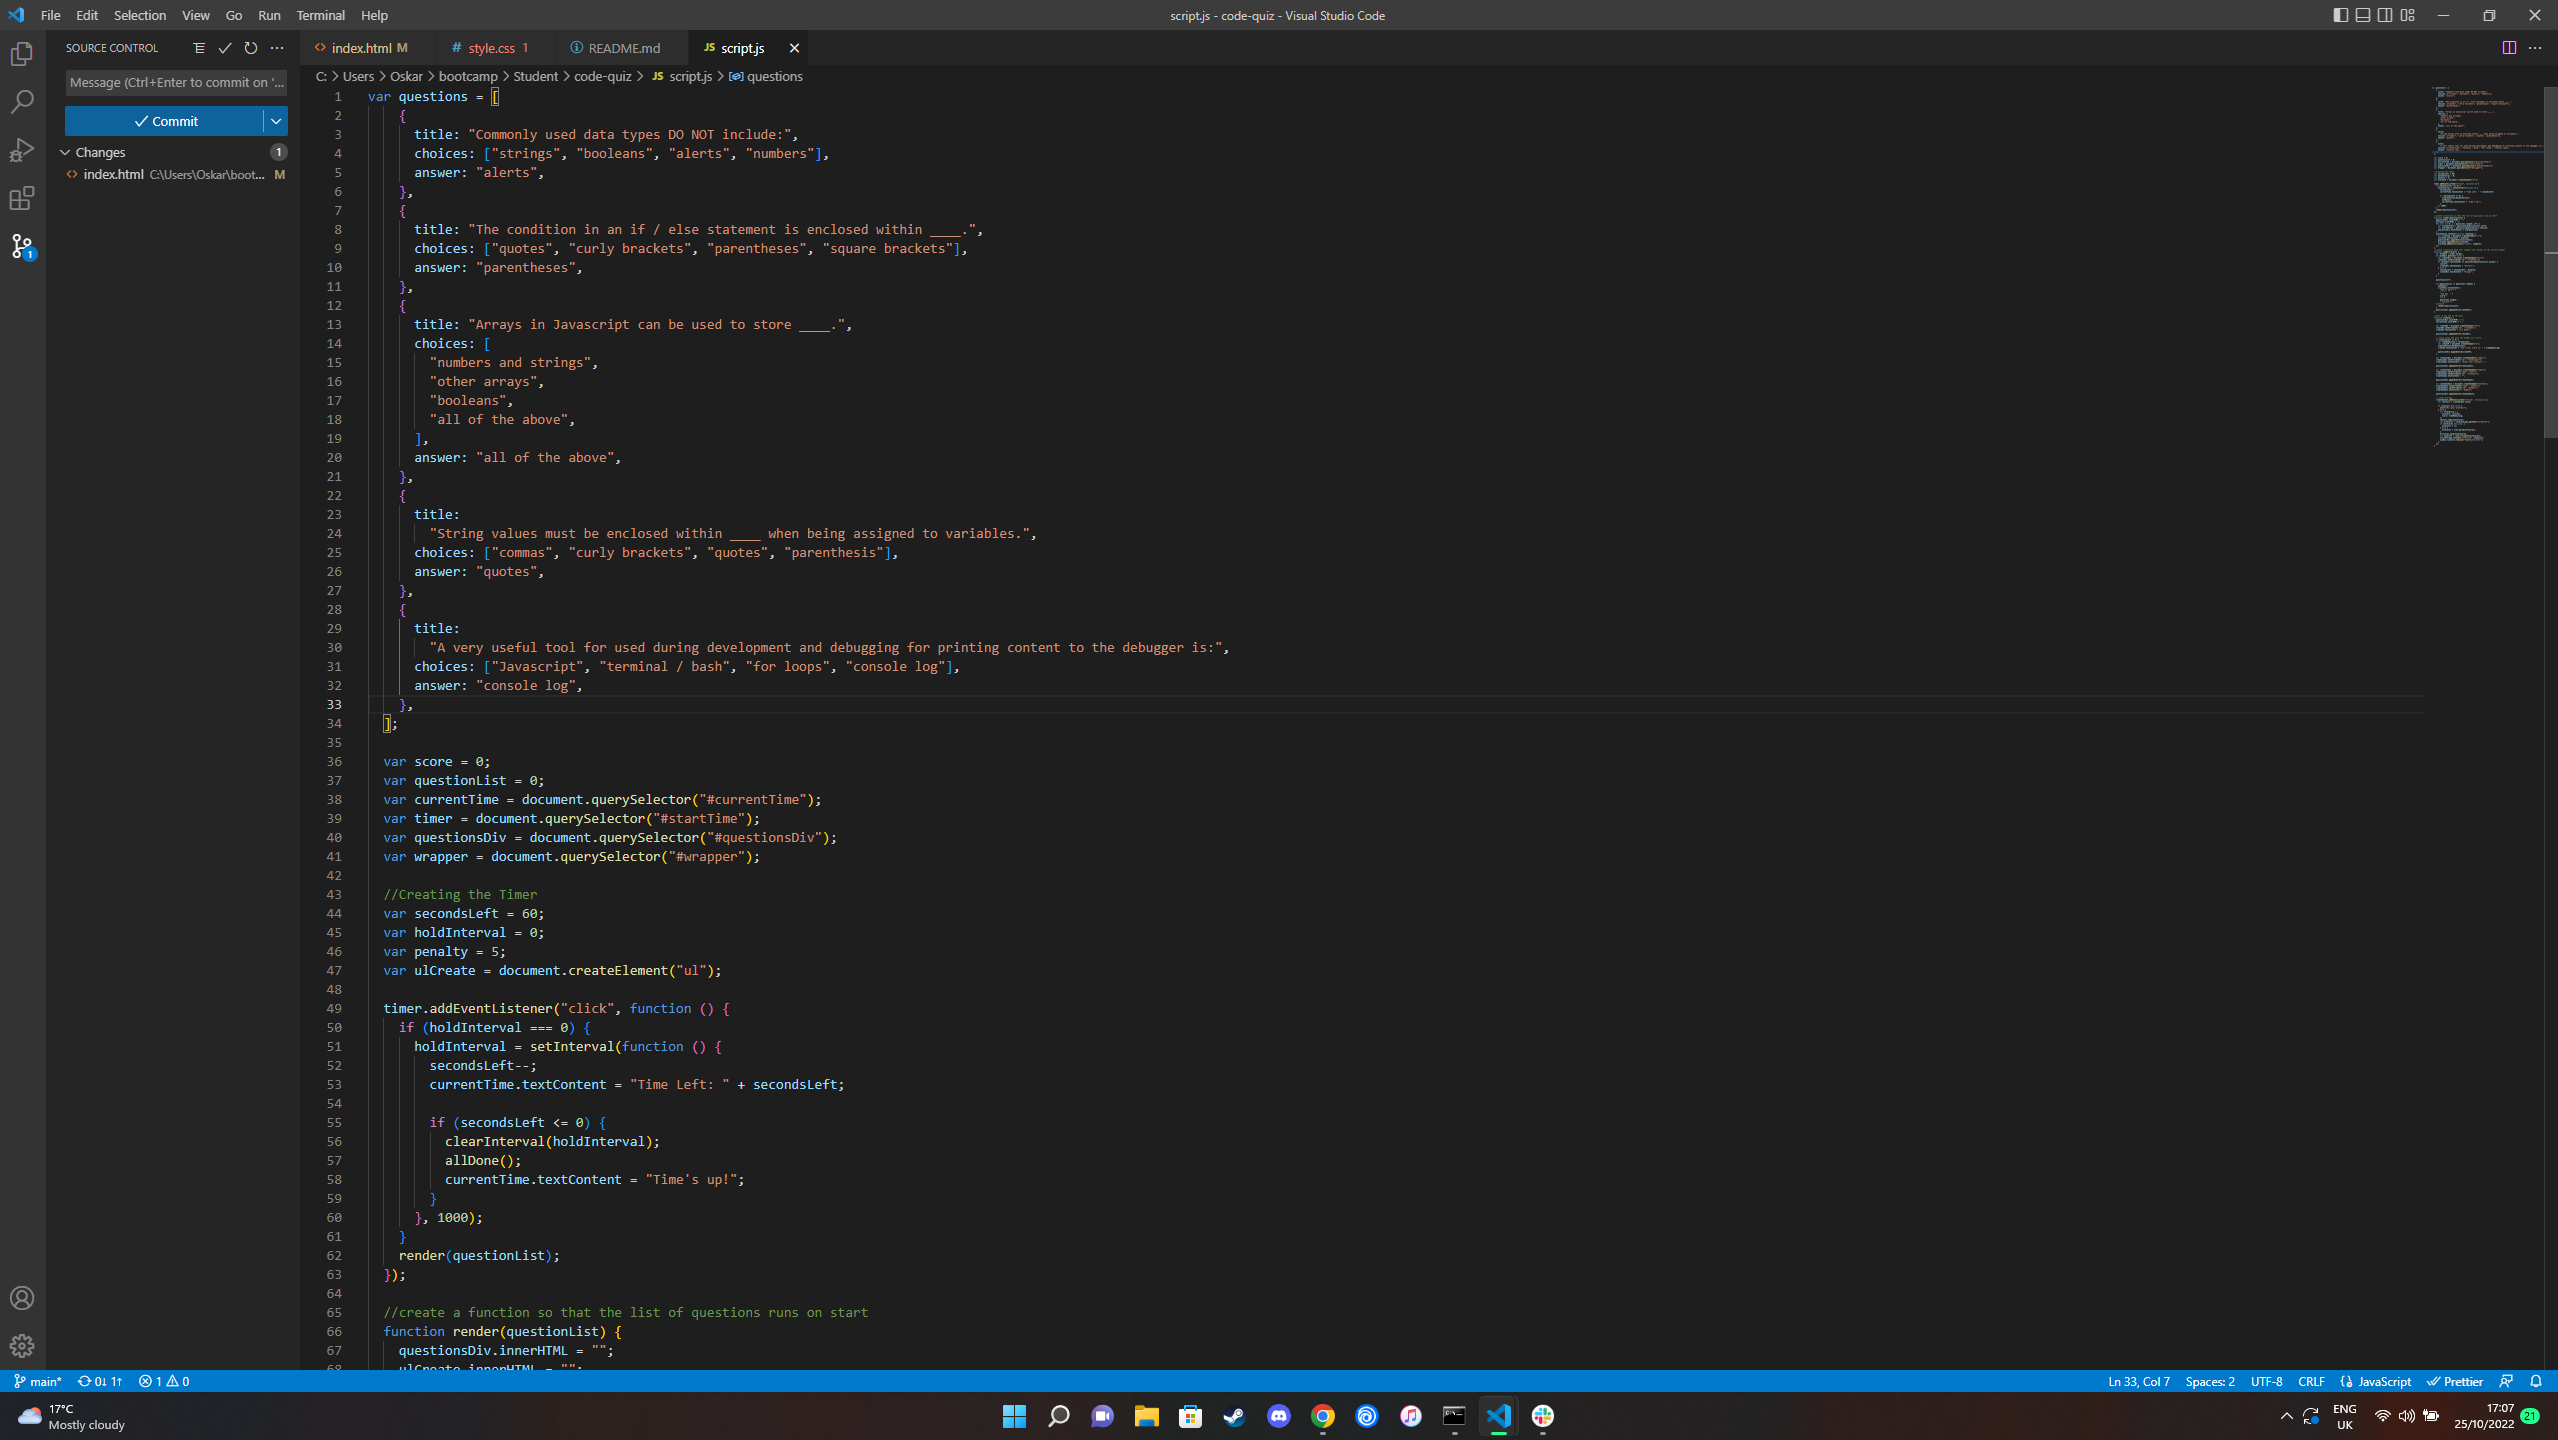
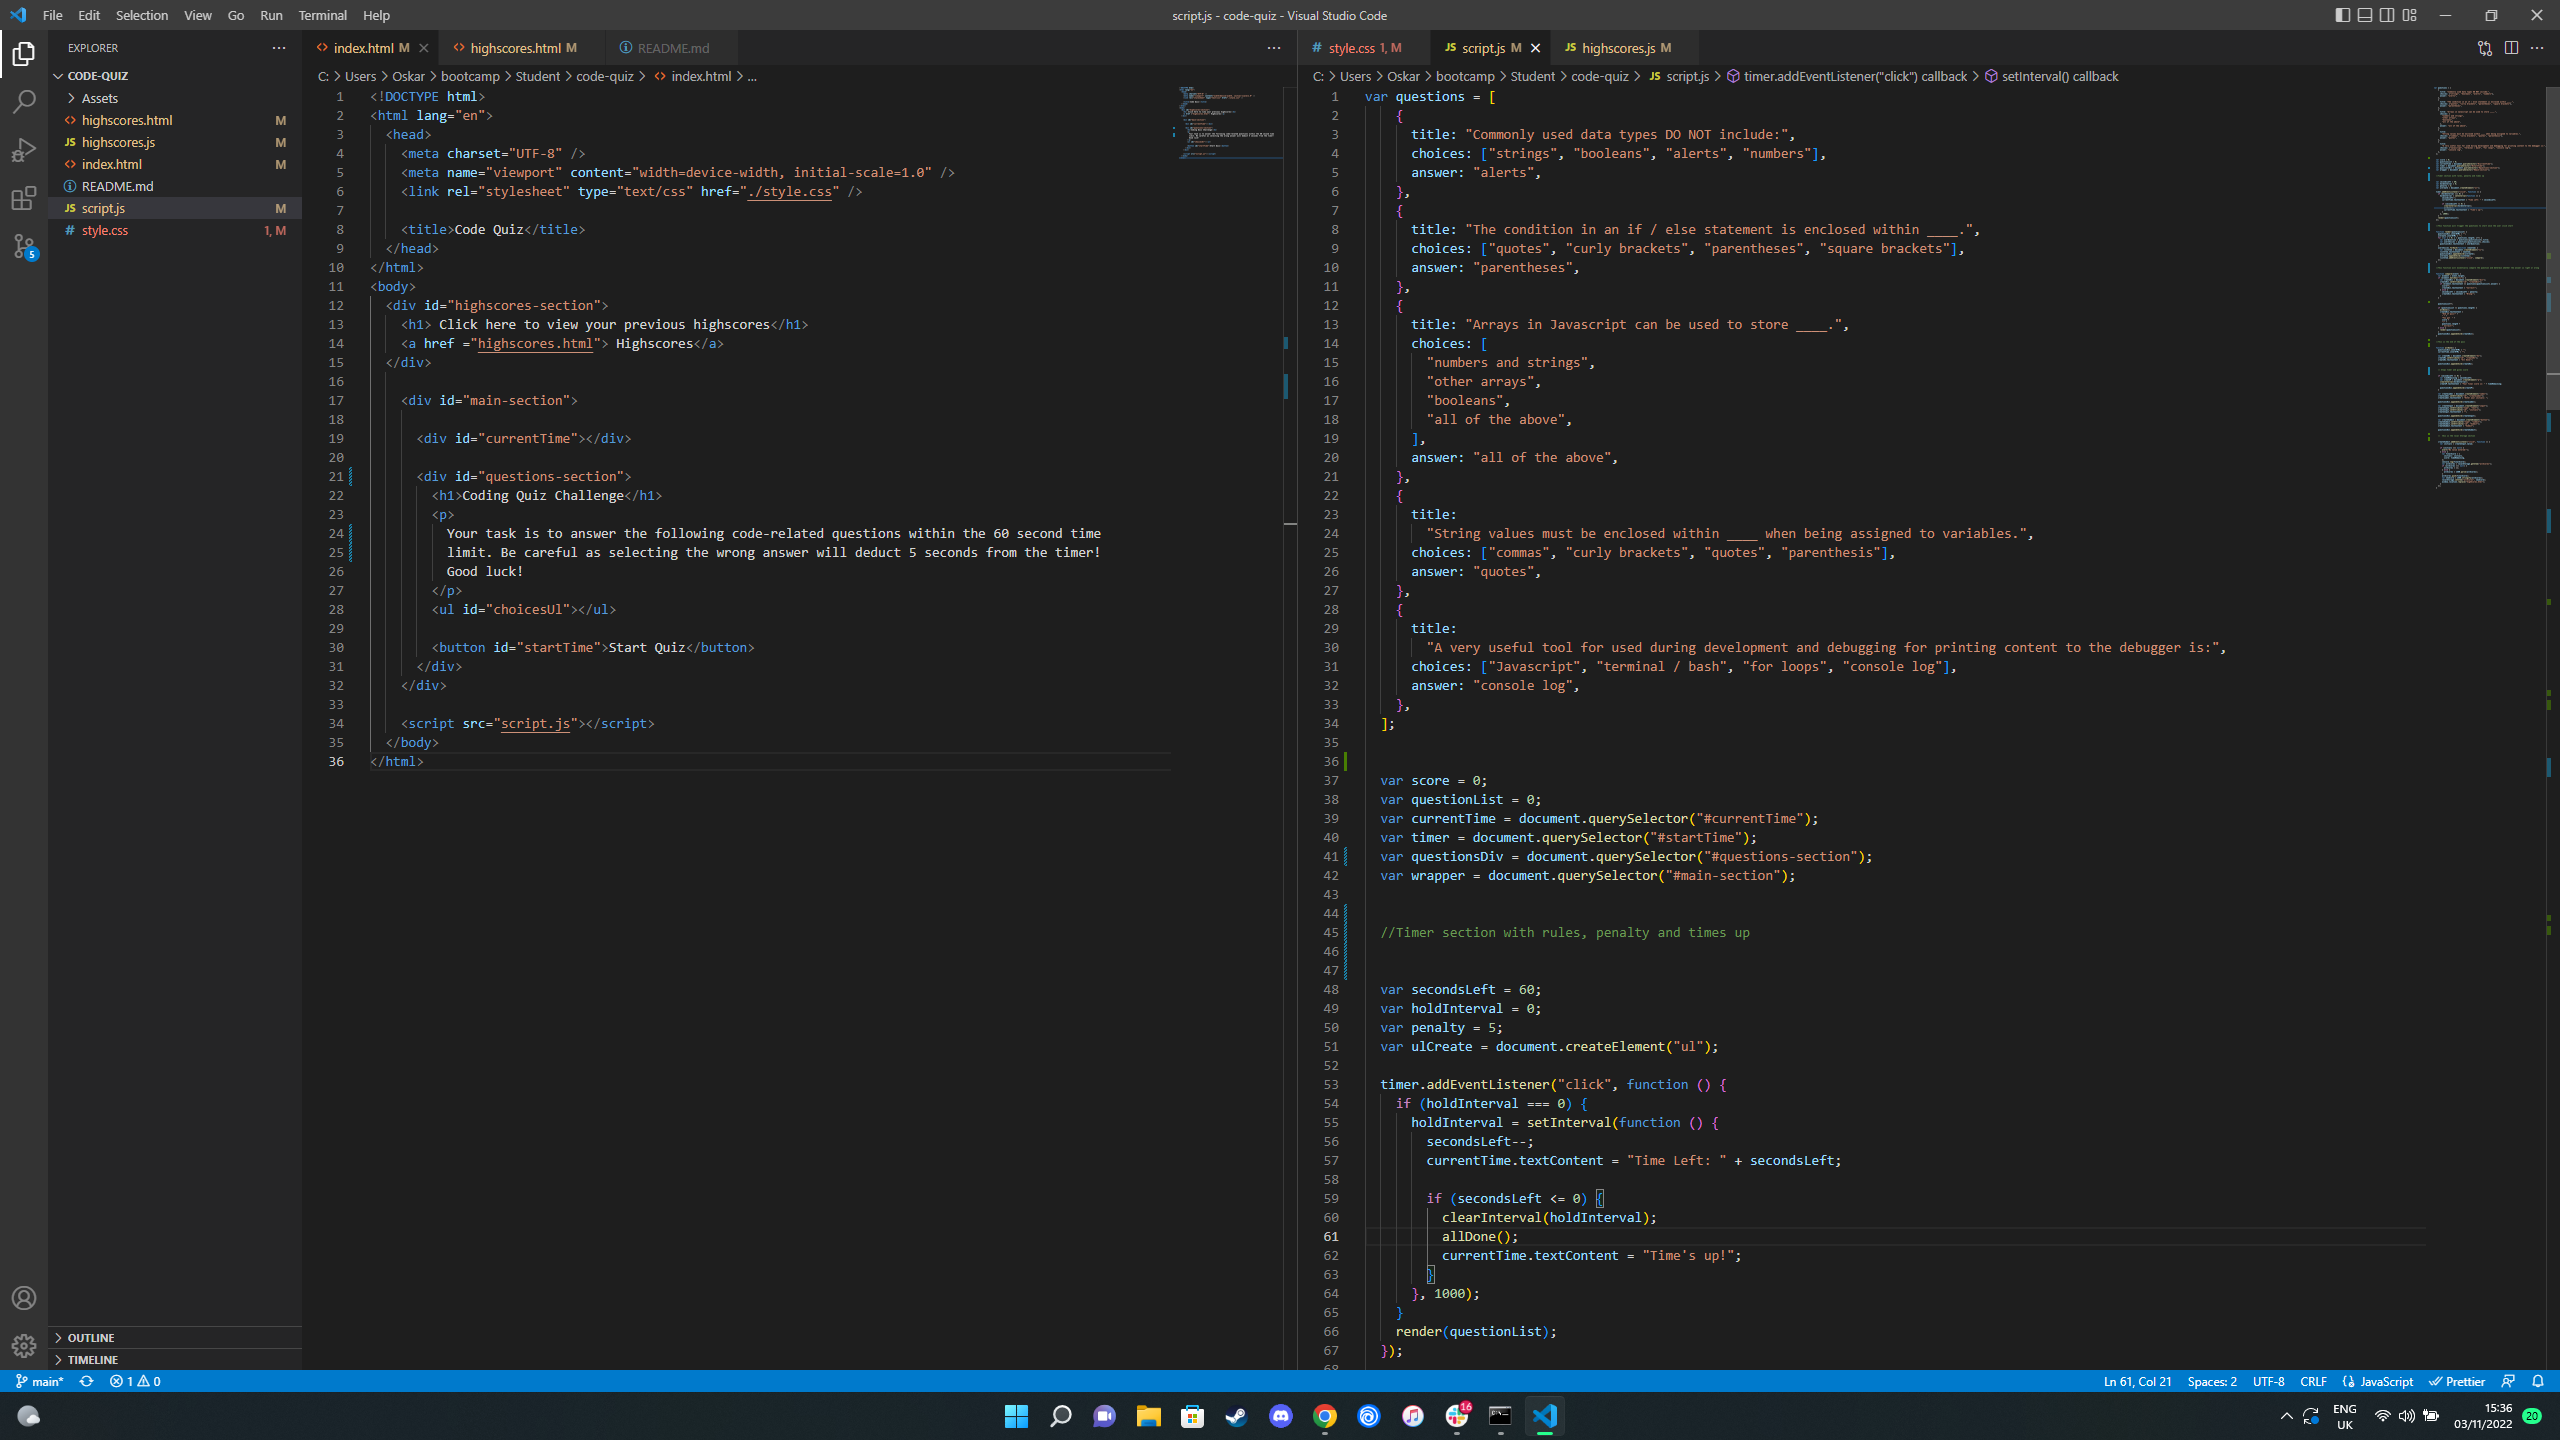
Minor improvements to code and updated screenshot

diff --git a/script.js b/script.js
@@ -33,14 +33,18 @@ var questions = [
     },
   ];
   
+
   var score = 0;
   var questionList = 0;
   var currentTime = document.querySelector("#currentTime");
   var timer = document.querySelector("#startTime");
-  var questionsDiv = document.querySelector("#questionsDiv");
+  var questionsDiv = document.querySelector("#questions-section");
   var wrapper = document.querySelector("#main-section");
   
-  //Timer
+
+  //Timer section with rules, penalty and times up
+
+
   var secondsLeft = 60;
   var holdInterval = 0;
   var penalty = 5;
@@ -62,7 +66,10 @@ var questions = [
     render(questionList);
   });
   
-  //function so that the list of questions runs on start
+
+  //This function will trigger the questions to start once the user click start
+
+
   function render(questionList) {
     questionsDiv.innerHTML = "";
     ulCreate.innerHTML = "";
@@ -79,7 +86,11 @@ var questions = [
       listItem.addEventListener("click", compare);
     });
   }
-  //function that will compare user answer to the correct answer
+
+
+  //This function will essentially compare the question and determin whether the answer is right or wrong
+
+
   function compare(event) {
     var element = event.target;
     if (element.matches("li")) {
@@ -94,6 +105,7 @@ var questions = [
       }
     }
   
+
     questionList++;
   
     if (questionList >= questions.length) {
@@ -112,7 +124,10 @@ var questions = [
     questionsDiv.appendChild(createDiv);
   }
   
+
   //This is the end of the quiz
+
+
   function allDone() {
     questionsDiv.innerHTML = "";
     currentTime.innerHTML = "";
@@ -123,7 +138,10 @@ var questions = [
   
     questionsDiv.appendChild(createH1);
   
-    // Stops timer and uses the number as a score
+
+    // Stops timer and gives score
+
+
     if (secondsLeft >= 0) {
       var timeRemaining = secondsLeft;
       var createP = document.createElement("p");
@@ -153,7 +171,10 @@ var questions = [
   
     questionsDiv.appendChild(createSubmit);
   
+
     //  this is the local Storage section 
+
+
     createSubmit.addEventListener("click", function () {
       var initials = createInput.value;
   

diff --git a/style.css b/style.css
@@ -1,23 +1,30 @@
 h1 {
     text-align: center;
   }
+
+
   p {
     font-family: Arial, Helvetica, sans-serif;
     text-align: center;
   }
   
+
   button {
     border-radius: 15px;
   }
   
+
   textarea {
     width: 90%;
     margin: 20px;
   }
   
+
   label {
     margin-right: 15px;
   }
+
+
   input {
     margin-bottom: 20px;
     width: 50%;
@@ -35,10 +42,12 @@ h1 {
     border-radius: 15px;
   }
   
+
   #highscores-section {
     text-align: center;
   }
   
+
   #main-section {
     display: block;
     margin-left: auto;
@@ -52,6 +61,8 @@ h1 {
     border: 5px solid rgb(0, 0, 0);
     border-radius: 15px;
   }
+
+
   #startTime {
     background-color: rgb(0, 0, 0);
     margin-left: 33%;
@@ -59,16 +70,20 @@ h1 {
     font-size: 20px;
     color: white;
   }
-  #questionsDiv {
+
+
+  #questions-section {
     margin: 20px;
     align-items: center;
   }
   
+
   #createDiv {
     margin-top: 20px;
     border-top: 1px solid lightgray;
   }
   
+
   #currentTime {
     align-content: center;
     position: absolute;
@@ -77,6 +92,7 @@ h1 {
       margin-right: auto;
   }
   
+
   #goBack {
     background-color: rgb(0, 0, 0);
     position: relative;
@@ -90,6 +106,7 @@ h1 {
     text-decoration: none;
   }
   
+
   #clear {
     background-color: rgb(0, 0, 0);
     position: relative;
@@ -101,6 +118,7 @@ h1 {
     text-align: center;
   }
   
+
   #Submit {
     background-color: rgb(0, 0, 0);
     margin-left: 33%;
@@ -109,6 +127,7 @@ h1 {
     color: white;
   }
   
+
   @media screen and (max-width: 786px) {
     body {
       max-width: 786px;

diff --git a/highscores.js b/highscores.js
@@ -1,14 +1,16 @@
 var highScore = document.querySelector("#highScore");
-var clear = document.querySelector("#clear");
-var goBack = document.querySelector("#goBack");
+var clear = document.querySelector("#clear-button");
+var goBack = document.querySelector("#goBack-button");
 
 clear.addEventListener("click", function () {
   localStorage.clear();
   location.reload();
 });
 
+
 var allScores = localStorage.getItem("allScores");
 allScores = JSON.parse(allScores);
+
 
 if (allScores !== null) {
   for (var i = 0; i < allScores.length; i++) {
@@ -17,6 +19,7 @@ if (allScores !== null) {
     highScore.appendChild(createLi);
   }
 }
+
 
 goBack.addEventListener("click", function () {
   window.location.replace("index.html");

diff --git a/index.html b/index.html
@@ -18,12 +18,11 @@
 
       <div id="currentTime"></div>
 
-      <div id="questionsDiv">
+      <div id="questions-section">
         <h1>Coding Quiz Challenge</h1>
         <p>
-          Try to answer the following code-related questions within the time
-          limit. You have 60 seconds, keep in mind that incorrect answers will penalize your
-          score/time by five seconds!
+          Your task is to answer the following code-related questions within the 60 second time
+          limit. Be careful as selecting the wrong answer will deduct 5 seconds from the timer!
           Good luck!
         </p>
         <ul id="choicesUl"></ul>

diff --git a/highscores.html b/highscores.html
@@ -17,8 +17,8 @@
       <div id="questionsDiv">
         <h1>Highscores</h1>
         <ul id="highScore"></ul>
-        <button id="goBack">Go Back</button>
-        <button id="clear" value="reset">Clear Highscore</button>
+        <button id="goBack-button">Go Back</button>
+        <button id="clear-button" value="reset">Clear Highscore</button>
       </div>
     </div>
     <script src="highscores.js"></script>
